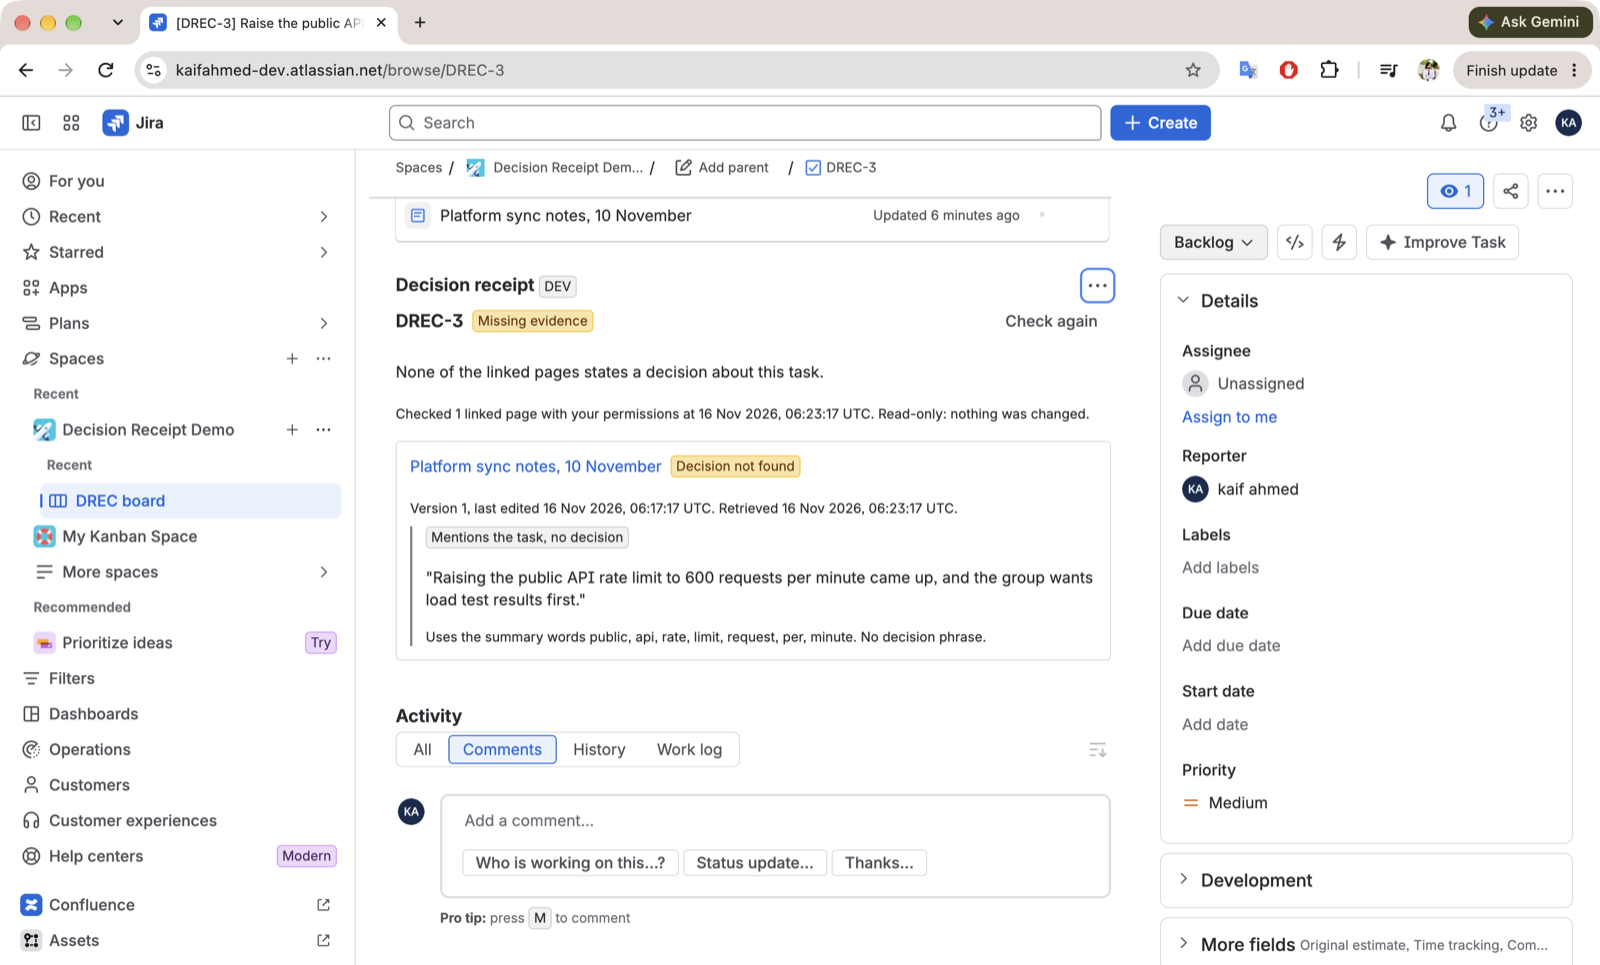
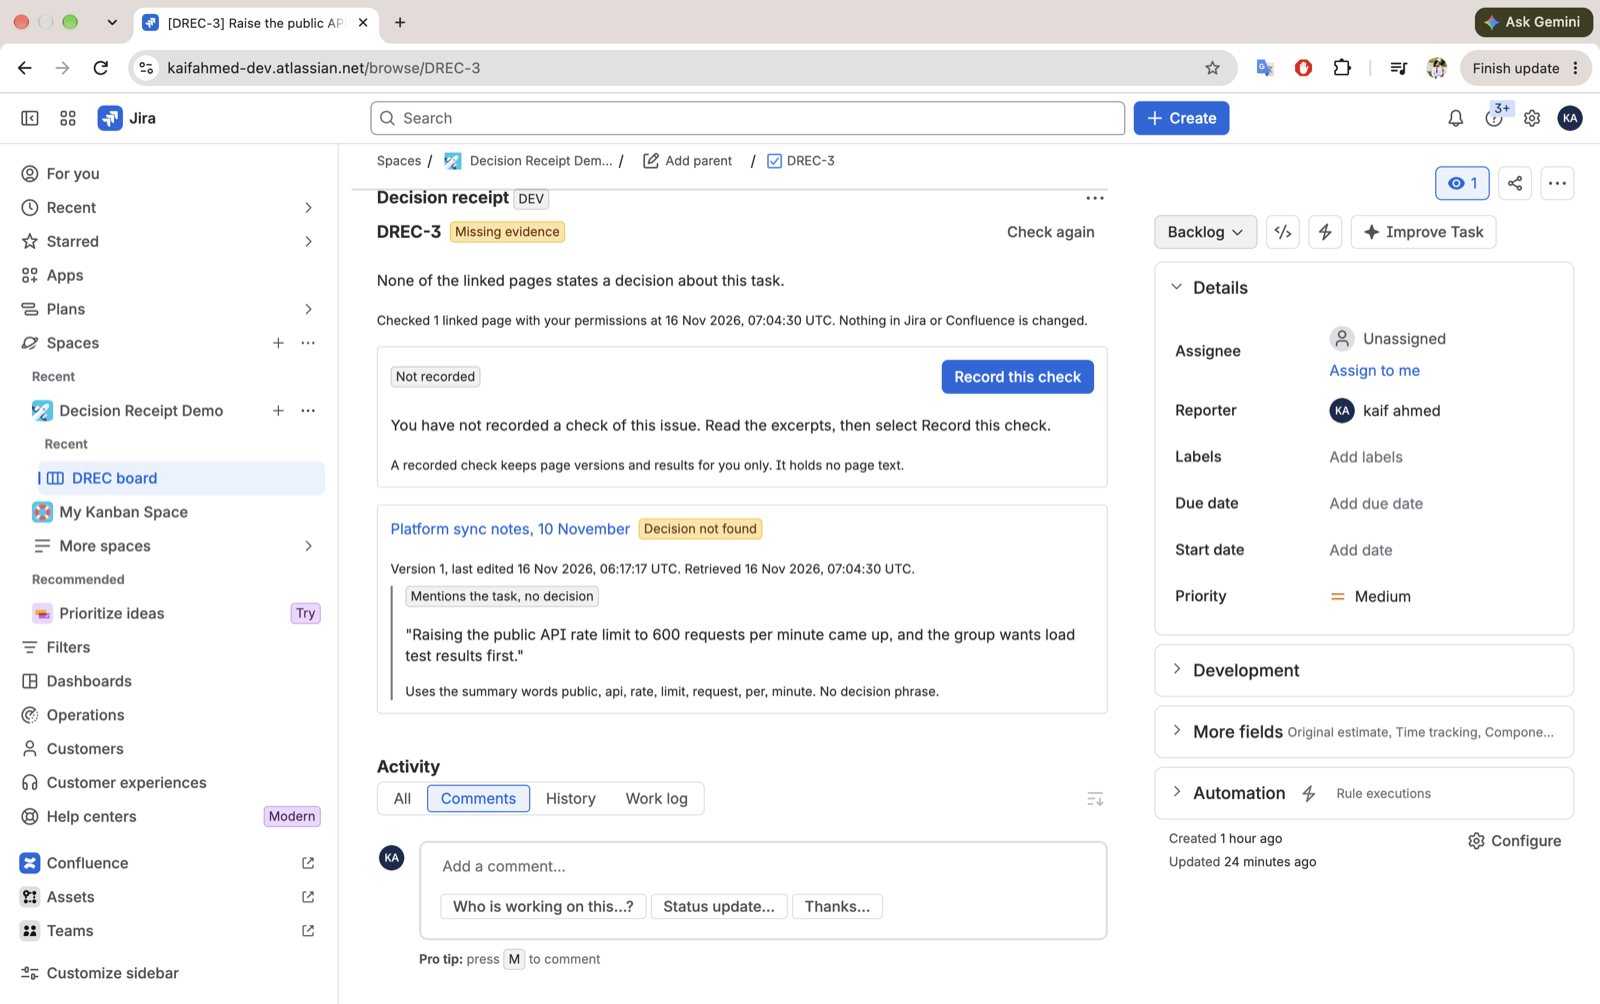
Add the slice 2 proof, fresh-site steps and decisions
Screenshots from the live site: the reviewer's and the owner's view of
DREC-6, Confluence refusing the restricted page to the reviewer, DREC-7
stale after an edit and current after a fresh record, and the conflict,
missing and deleted cases with the new record banner. The README gains
the permission results, an acceptance case table and exact steps to
recreate everything on a fresh site.

diff --git a/README.md b/README.md
@@ -1,6 +1,6 @@
 # Decision receipt
 
-A Forge app for Jira. It adds a read-only issue panel that checks a task against the Confluence decision pages linked to it, and shows the exact sentences it relied on.
+A Forge app for Jira. It adds an issue panel that checks a task against the Confluence decision pages linked to it, and shows the exact sentences it relied on.
 
 For each linked page the panel shows:
 
@@ -10,22 +10,25 @@ For each linked page the panel shows:
 
 A conflict on any page is reported as an unresolved conflict. A page without a decision is reported as missing evidence. The panel never reports a task as approved; it shows what the pages say and leaves the decision to the reviewer.
 
+A reviewer can **record a check** once they have read the evidence. If a linked page is edited, added, removed or hidden after that, the panel marks the recorded check **stale** until the reviewer records a fresh one.
+
 Built for [Codegeist 2026](https://codegeist2026.devpost.com/), category Apps for Software Teams. The repository lives under Kaif Ahmed's GitHub account (`kaifahmed0341`) at his request, in place of the `sami-abdul` owner named in the original plan.
 
-![DREC-2: one page supports the task, another conflicts](docs/proof/drec-2-conflict.png)
+![DREC-7: a recorded check goes stale after the decision page is edited](docs/proof/drec-7-stale-after-edit.png)
 
-## What this first version does
+## What it does
 
 - Adds a **Decision receipt** issue panel to Jira (`jira:issuePanel`, UI Kit).
-- Reads the issue summary and its remote links, then reads each linked Confluence page on the same site.
-- Classifies each page with a fixed rule set (below). No AI model, no outside service.
-- Handles pages the viewer cannot open, deleted or archived pages, links to other sites, links without a page id, and rate limits.
+- Reads the issue summary and its remote links, then reads each linked Confluence page on the same site, as the viewer.
+- Classifies each page with fixed text rules ([docs/rules.md](docs/rules.md)). No AI model, no outside service.
+- Lets each reviewer record a check and flags it stale when the pages change.
+- Reports, per page and in plain words: pages the viewer cannot open, deleted or archived pages, rate limits, interrupted requests, pages not read because of the time limit, links to other sites and links without a page id.
 
 ## What it does not do yet
 
-- It writes nothing: no Jira comments, no transitions, no app storage.
-- It does not remember earlier checks, so it cannot yet say "this page changed since the last check". Each check shows the page version it read.
+- It writes nothing to Jira or Confluence. No comments, no transitions.
 - It reads only pages linked to the issue. It does not search Confluence.
+- Its rules miss some phrasings; see the measured limits in [docs/rules.md](docs/rules.md).
 - It has no Rovo agent, MCP server or Teamwork Graph integration.
 - It is deployed to the development environment only. There is no production deployment or installation link yet.
 
@@ -35,104 +38,132 @@ Every Jira and Confluence request goes out with `api.asUser()`, so it runs with 
 
 When a page cannot be read, Confluence answers 404 (or 403) whether the page was deleted or the viewer lacks permission. The panel does not try to tell these apart. It shows "Not available to you" with no title, link or text from the page; the Jira link's own title and URL are left out too, because a URL can contain the page title.
 
+A recorded check is stored in the app's Forge key-value storage under a key made of the site's cloud id, the issue id and the reviewer's account id. It holds, for each linked page, the page id, whether it could be read, its version and the verdict. It holds no page text and no titles. One reviewer's record is never read for another reviewer, so a record cannot reveal a page the second reviewer cannot open. The page ids used for stale detection stay on the server; the panel only receives a hash of them.
+
+Tested on the live site with two accounts on 16 November 2026 (issue DREC-6, one page restricted to its owner):
+
+| Account | Panel result | Restricted page title or text anywhere in the issue page | Proof |
+|---|---|---|---|
+| Demo Reviewer, no access to the page | Evidence incomplete; "Not available to you" | No | [panel](docs/proof/drec-6-reviewer-restricted.png), [Confluence refuses the page](docs/proof/drec-6-reviewer-confluence-locked.png) |
+| kaif ahmed, page owner (positive control) | Unresolved conflict; quotes the restricted page | Yes | [panel](docs/proof/drec-6-owner-control.png) |
+
+The text check for both accounts is in [docs/proof/drec-6-permission-check.json](docs/proof/drec-6-permission-check.json). Jira's own "Confluence content" section, which is not part of this app, still lists the link URL to the reviewer and labels it as restricted.
+
 Scopes in `manifest.yml`:
 
 | Scope | Used for |
 |---|---|
 | `read:jira-work` | `GET /rest/api/3/issue/{key}?fields=summary` and `GET /rest/api/3/issue/{key}/remotelink` |
 | `read:page:confluence` | `GET /wiki/api/v2/pages/{id}?body-format=storage` |
+| `storage:app` | each reviewer's recorded check |
 
 The app declares Jira as its required product and Confluence as optional (`app.compatibility`), which is how a Forge app placed in Jira gets to read Confluence on the same site. It must be installed in both.
 
-## How a page is classified
+## Acceptance cases
 
-The rules are in [`src/lib/classify.js`](src/lib/classify.js) and covered by tests.
+| Case from the plan | Result on the live site | Proof | Unit tests |
+|---|---|---|---|
+| A linked page states the decision clearly | Excerpt, link and page version shown | [DREC-1](docs/proof/drec-1-supported.png) | `fixtures.test.mjs` |
+| A second accessible source conflicts | Both pages shown, "Unresolved conflict" | [DREC-2](docs/proof/drec-2-conflict.png) | `fixtures.test.mjs`, `classify.test.mjs` |
+| The linked page omits the decision | "Missing evidence", the mention shown as no decision | [DREC-3](docs/proof/drec-3-missing.png) | `fixtures.test.mjs` |
+| The linked page is deleted | "Deleted or archived", nothing quoted | [DREC-4](docs/proof/drec-4-deleted-page.png) | `receipt.test.mjs` |
+| User A can read a source, user B cannot | B sees no title, text or link; A sees the page | [DREC-6](docs/proof/drec-6-reviewer-restricted.png) and control | `receipt.test.mjs`, `fixtures.test.mjs`, `staleness.test.mjs` |
+| The page changes after a check | Recorded check marked stale until a fresh one is recorded | [stale](docs/proof/drec-7-stale-after-edit.png), [fresh](docs/proof/drec-7-fresh-check-recorded.png) | `staleness.test.mjs` |
+| Rate limit | Up to two retries honouring `Retry-After`, then "Not checked yet" for that page | not shown live | `receipt.test.mjs`, `staleness.test.mjs` |
+| Interrupted request | "Request interrupted" for that page; a whole-panel interruption says nothing was recorded | not shown live | `receipt.test.mjs` |
+| The resolver runs out of time | Pages after 18 seconds marked "Not read" | not shown live | `receipt.test.mjs` |
 
-1. A sentence is relevant when it names the issue key (for example `DREC-2`), when it is a status line (`Status: Deferred`), or when it contains at least 60 percent of the significant words in the issue summary, and never fewer than two.
-2. A relevant sentence ending in a question mark is a question, not a decision.
-3. A relevant sentence with a blocking phrase such as "will not", "rejected", "deferred" or "superseded" conflicts with the task.
-4. A relevant sentence with a supporting phrase such as "approved", "agreed" or "decided to" supports the task, unless "not", "never" or "no" comes within three words before it.
-5. Any other relevant sentence mentions the task without deciding anything.
+Rate limits and interruptions cannot be triggered on demand on a live site, so they are covered by unit tests with faked responses. The comment and second-site cases in the plan are not part of this read-only version.
 
-A page conflicts if any sentence conflicts, supports if at least one sentence supports and none conflicts, and is missing the decision otherwise. Across pages, any conflict wins; full support needs every linked page to be read and to support the task.
+## Recreate everything on a fresh site
 
-These rules are deliberately simple and will miss decisions phrased in other ways. They are shown, with the matched phrase, next to every excerpt so a reviewer can check them.
+Steps 3 to 7 were run on the author's site on 16 November 2026. The author's copy was created with `forge create` rather than `forge register`; otherwise steps 1 and 2 match its setup. You need Node.js 22, a Jira and Confluence Cloud site where you are a site admin, and an Atlassian API token from <https://id.atlassian.com/manage-profile/security/api-tokens>.
+
+1. Install the tools and check the login:
+
+   ```sh
+   npm install -g @forge/cli
+   git clone https://github.com/kaifahmed0341/decision-receipt.git
+   cd decision-receipt
+   npm install
+   export FORGE_EMAIL=you@example.com
+   export FORGE_API_TOKEN=your-token
+   forge whoami
+   npm test
+   ```
+
+2. Register your own copy of the app (this replaces `app.id` in `manifest.yml`), deploy and install it in both products:
+
+   ```sh
+   forge register decision-receipt
+   forge deploy -e development
+   forge install -e development -p jira -s your-site.atlassian.net
+   forge install -e development -p confluence -s your-site.atlassian.net
+   ```
+
+   `forge register` may ask for a Developer Space; create one in the Developer Console first if you have none. If a later deploy adds a scope to an installed app, Forge asks you to approve a major version; rerun with `--approve MAJOR_VERSION_RULE` and then `forge install --upgrade` for both products.
+
+3. Create the demonstration data. The page text refers to issue keys `DREC-1` to `DREC-7`, so use a site without a `DREC` project:
+
+   ```sh
+   ATLASSIAN_SITE=https://your-site.atlassian.net \
+   ATLASSIAN_EMAIL=you@example.com \
+   ATLASSIAN_API_TOKEN=your-token \
+   npm run fixtures
+   ```
+
+   The script is safe to run again; it reuses what exists. It restricts "Legal hold review: audit logs" so only your account can read it.
+
+4. Open `https://your-site.atlassian.net/browse/DREC-1`, select **View app actions** under the summary and choose **Decision receipt**. The panel stays on that issue afterwards. Repeat for DREC-2 to DREC-7.
+
+5. Stale check: on DREC-7 select **Record this check**. Then run `npm run edit-page` with the same three variables and reopen DREC-7; the panel shows "Recorded check is stale" with the version change. `npm run edit-page -- --restore` puts the approval back.
+
+6. Permission check: invite a second user as a plain Jira and Confluence user (Administration, Users, Invite users, groups `jira-users-<site>` and `confluence-users-<site>`). Signed in as that user, open DREC-6 and add the panel. They see "Evidence incomplete" and "Not available to you" for the restricted page, while your own account sees "Unresolved conflict" with the page quoted.
+
+7. Measure the rules: `npm run evaluate` prints every labelled excerpt as a hit or a miss and the totals.
+
+## Demonstration data
+
+`fixtures/data.mjs` holds one Jira project (`DREC`), one Confluence space (`DRDEMO`), eight pages and seven issues. All of it is fictional.
+
+| Issue | Linked pages | Panel result for the fixture owner |
+|---|---|---|
+| DREC-1 Remove the v1 CSV export endpoint | one page that approves it | Evidence found on every linked page |
+| DREC-2 Switch invoice PDFs to the new renderer | one page agrees, one says "will not" | Unresolved conflict |
+| DREC-3 Raise the public API rate limit to 600 requests per minute | meeting notes that discuss it without deciding | Missing evidence |
+| DREC-4 Archive the legacy webhook queue | a page now in the trash | Could not check |
+| DREC-5 Rename the staging cluster | none | No decision pages linked |
+| DREC-6 Move audit logs to cold storage after 90 days | an open page agrees; a page restricted to the owner says "not approved" | Unresolved conflict (other users: Evidence incomplete) |
+| DREC-7 Turn on single sign-on for the admin console | a page that approves it until `edit-page` defers it | Evidence found on every linked page, then Unresolved conflict |
 
 ## Linking a decision page
 
 Use Jira's own **Link Confluence page** action on the issue, or any remote link whose URL is a Confluence page on the same site. The panel reads the page id from the link's `globalId` (`...&pageId=123`) or from the URL (`/wiki/spaces/KEY/pages/123/...` or `viewpage.action?pageId=123`). Short links (`/wiki/x/...`) carry no page id and are reported as unreadable.
 
-The fixture script creates links through `POST /rest/api/3/issue/{key}/remotelink` with application type `com.atlassian.confluence`, the same shape the Jira action creates. Jira recognises these as native Confluence links and shows them under "Confluence content".
-
-## Demonstration data
-
-`fixtures/data.mjs` holds one Jira project (`DREC`), one Confluence space (`DRDEMO`), five pages and five issues. All of it is fictional.
-
-| Issue | Linked pages | Expected panel result | Proof |
-|---|---|---|---|
-| DREC-1 Remove the v1 CSV export endpoint | one page that approves it | Evidence found on every linked page | [png](docs/proof/drec-1-supported.png) |
-| DREC-2 Switch invoice PDFs to the new renderer | one page agrees, one says "will not" | Unresolved conflict | [png](docs/proof/drec-2-conflict.png) |
-| DREC-3 Raise the public API rate limit to 600 requests per minute | meeting notes that discuss it without deciding | Missing evidence | [png](docs/proof/drec-3-missing.png) |
-| DREC-4 Archive the legacy webhook queue | a page now in the trash | Could not check | [png](docs/proof/drec-4-deleted-page.png) |
-| DREC-5 Rename the staging cluster | none | No decision pages linked | [png](docs/proof/drec-5-no-links.png) |
-
-The screenshots were taken on 16 November 2026 from the development deployment on the author's test site. The page text refers to issue keys `DREC-1` to `DREC-4`, so run the script on a site where the `DREC` project does not exist yet.
-
-## Setup for developers
-
-Requirements: Node.js 22 (the Forge CLI warns on newer versions), an Atlassian account, and an Atlassian API token from <https://id.atlassian.com/manage-profile/security/api-tokens>.
-
-```sh
-npm install -g @forge/cli
-npm install
-
-# The Forge CLI reads these instead of an interactive login.
-export FORGE_EMAIL=you@example.com
-export FORGE_API_TOKEN=your-token
-forge whoami
-
-npm test                      # unit tests, no network
-forge lint
-forge deploy -e development
-forge install -e development -p jira -s your-site.atlassian.net
-forge install -e development -p confluence -s your-site.atlassian.net
-
-# Create the demonstration project, space, pages, issues and links.
-ATLASSIAN_SITE=https://your-site.atlassian.net \
-ATLASSIAN_EMAIL=you@example.com \
-ATLASSIAN_API_TOKEN=your-token \
-npm run fixtures
-```
-
-The `app.id` in `manifest.yml` belongs to the author's Forge app. To deploy your own copy, run `forge register` first, which replaces it.
-
-Then open an issue such as `DREC-2`, select the app icon under the issue summary (**View app actions**) and choose **Decision receipt**. The panel stays on the issue after that.
-
-## Judge setup (draft)
-
-The installation link does not exist yet; it comes with the production deployment in a later step. The steps will be:
-
-1. Use a Jira Cloud site that also has Confluence.
-2. Open the installation link, install the app in Jira, then install it in Confluence on the same site when prompted.
-3. Run the fixture script above, or link any Confluence decision page to an issue with **Link Confluence page**.
-4. Open the issue, choose **View app actions**, then **Decision receipt**.
+The fixture script creates links through `POST /rest/api/3/issue/{key}/remotelink` with application type `com.atlassian.confluence`, the same shape the Jira action creates. Jira recognises these as native Confluence links.
 
 ## Project layout
 
 ```
-manifest.yml           Forge modules, scopes and Jira/Confluence compatibility
-src/resolvers/         the resolver: Jira and Confluence calls as the current user
-src/lib/links.js       remote links to Confluence page ids, same-site only
-src/lib/text.js        Confluence storage format to plain sentences
-src/lib/classify.js    the rule set
-src/lib/evidence.js    everything the reviewer reads: labels, excerpts, times
-src/lib/receipt.js     puts it together, with retries on 429 and 503
-src/frontend/          the UI Kit panel
-fixtures/data.mjs      fictional demonstration data
-scripts/fixtures.mjs   creates the demonstration data on a site
-test/                  unit tests (node:test)
-docs/proof/            screenshots from the running app
-docs/decisions.md      choices made while building, with the alternative rejected
+manifest.yml            Forge modules, scopes and Jira/Confluence compatibility
+src/resolvers/          the resolver: Jira and Confluence calls as the current user, storage
+src/lib/links.js        remote links to Confluence page ids, same-site only
+src/lib/text.js         Confluence storage format to plain sentences
+src/lib/classify.js     the rule set
+src/lib/evidence.js     everything the reviewer reads: labels, excerpts, times
+src/lib/receipt.js      one check: retries, interruptions, time budget
+src/lib/staleness.js    recorded checks and stale detection
+src/lib/review.js       loads a check with its record, records a fresh check
+src/frontend/           the UI Kit panel
+fixtures/data.mjs       fictional demonstration data
+fixtures/labelled-excerpts.json  32 hand-labelled sentences for measuring the rules
+scripts/fixtures.mjs    creates the demonstration data on a site
+scripts/edit-page.mjs   edits one fixture page to show a stale check
+scripts/evaluate-rules.mjs  scores the rules against the labelled sentences
+test/                   unit tests (node:test)
+docs/rules.md           the rules, their measured accuracy and limits
+docs/proof/             screenshots and checks from the running app
+docs/decisions.md       choices made while building, with the alternative rejected
 ```
 
 ## License

diff --git a/docs/decisions.md b/docs/decisions.md
@@ -29,7 +29,7 @@ Choices made while building the first slice on 16 November 2026, each with the a
 ## Fixtures
 
 - Links are Jira remote links with application type `com.atlassian.confluence`, created through REST. That is the shape Jira's own "Link Confluence page" action produces, and Jira recognised them as native links. Rejected the Confluence page "Jira issue" macro, which links the other way and is harder to read as the viewer.
-- The deleted-page case uses a page moved to the trash. As the page owner, Confluence answers 200 with status `trashed`, so the panel shows "Deleted or archived". A viewer without access gets 404 and sees "Not available to you"; that case is covered by unit tests but not yet proven on the site, because it needs a second user.
+- The deleted-page case uses a page moved to the trash. As the page owner, Confluence answers 200 with status `trashed`, so the panel shows "Deleted or archived". A viewer without access gets 404 and sees "Not available to you"; slice 2 proved the 404 path live with a second user and a restricted page (DREC-6).
 - Fixture text lives in `fixtures/data.mjs` and the tests run the full receipt over it, so the expected verdicts are checked on every test run.
 
 ## Repository
@@ -37,3 +37,33 @@ Choices made while building the first slice on 16 November 2026, each with the a
 - `kaifahmed0341/decision-receipt`, public, MIT, at Kaif's request in place of `sami-abdul/decision-receipt` from the plan.
 - The template's `AGENTS.md` was removed. It held generic agent instructions unrelated to this app.
 - Dalil was not reused in this slice, so its license was not checked. Nothing from it is in this repository.
+
+# Slice 2, 16 November 2026
+
+## Second user
+
+- The reviewer account is `kaifahmed0341+reviewer@gmail.com`, display name "Demo Reviewer", invited from Administration as a plain user with the `jira-users` and `confluence-users` groups and no admin role. Its password was generated with `openssl rand` and lives outside the repository. Rejected a guest account: the plan's case is an ordinary licensed user who lacks access to one page, not a guest.
+- The invitation, the sign-up code and the sign-up form ran in a Chrome incognito window so Kaif's own session stayed signed in. No CAPTCHA appeared.
+- The restricted page is a new fixture page, not an edit of an existing one, so DREC-1 to DREC-5 keep their slice 1 behaviour. Its Jira link carries the neutral title "Confluence page", because a link title is visible to everyone who can see the issue.
+
+## Recorded checks and stale detection
+
+- A check is recorded only when the reviewer selects **Record this check**. Rejected recording every check automatically: the stale warning would vanish on the next open, which defeats "require a fresh check".
+- Records are per site, issue and user. Rejected one shared record per issue: it would let one reviewer's record carry page ids, versions and verdicts for pages another reviewer cannot open.
+- A record stores page id, read status, version and verdict only. Excerpts are not stored; the panel always shows a live read.
+- Recording reads the pages again on the server and refuses if their state differs from what the panel showed (compared by a hash), or if any page was rate limited, interrupted or skipped for time. Pages the viewer cannot open and deleted pages may be recorded as such, because that is a stable state.
+- Records use `@forge/kvs` 2.1.2, the current key-value package, with the `storage:app` scope. Adding the scope forced a major version on the development environment (`--approve MAJOR_VERSION_RULE`) and an install upgrade in both products.
+
+## Failure handling
+
+- An exception from a page request, other than the platform's consent error, is shown as "Request interrupted" for that page. Rejected failing the whole panel: one bad page should not hide the evidence from the others.
+- No new page read starts after 18 seconds; later pages show "Not read". Forge resolvers stop at about 25 seconds, and a cut-off panel would show nothing.
+- Rate limits and interruptions are tested with faked responses only. Triggering a real rate limit on a shared developer site would affect other work on it.
+
+## Measuring the rules
+
+- 32 hand-labelled fictional sentences, labelled before the first run and not changed after it. Result 24 of 32. Rejected tuning the rules against this set in the same slice: the numbers would stop meaning anything. Any rule change in a later slice should come with new sentences it has not seen.
+
+## Fixture state
+
+- DREC-7's page was edited to version 2 for the stale proof and then restored with `edit-page --restore`, so it now sits at version 3 with the original approval. Kaif's recorded check on DREC-7 is therefore stale again, which is the expected behaviour.
